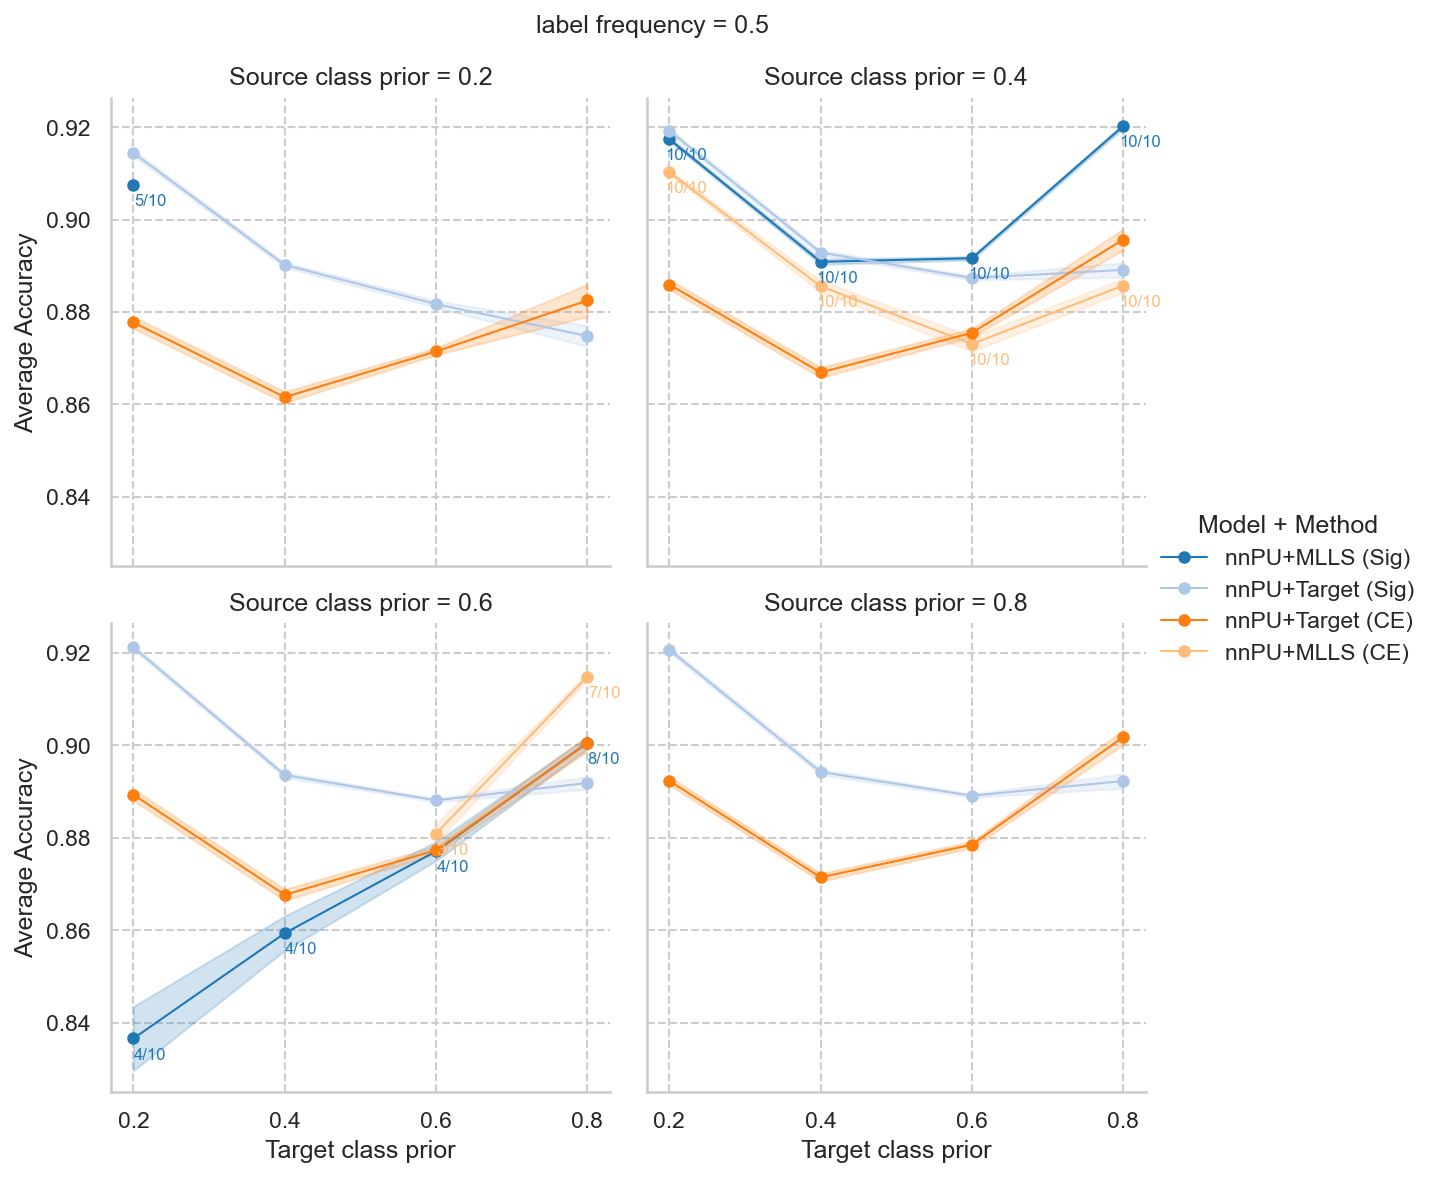
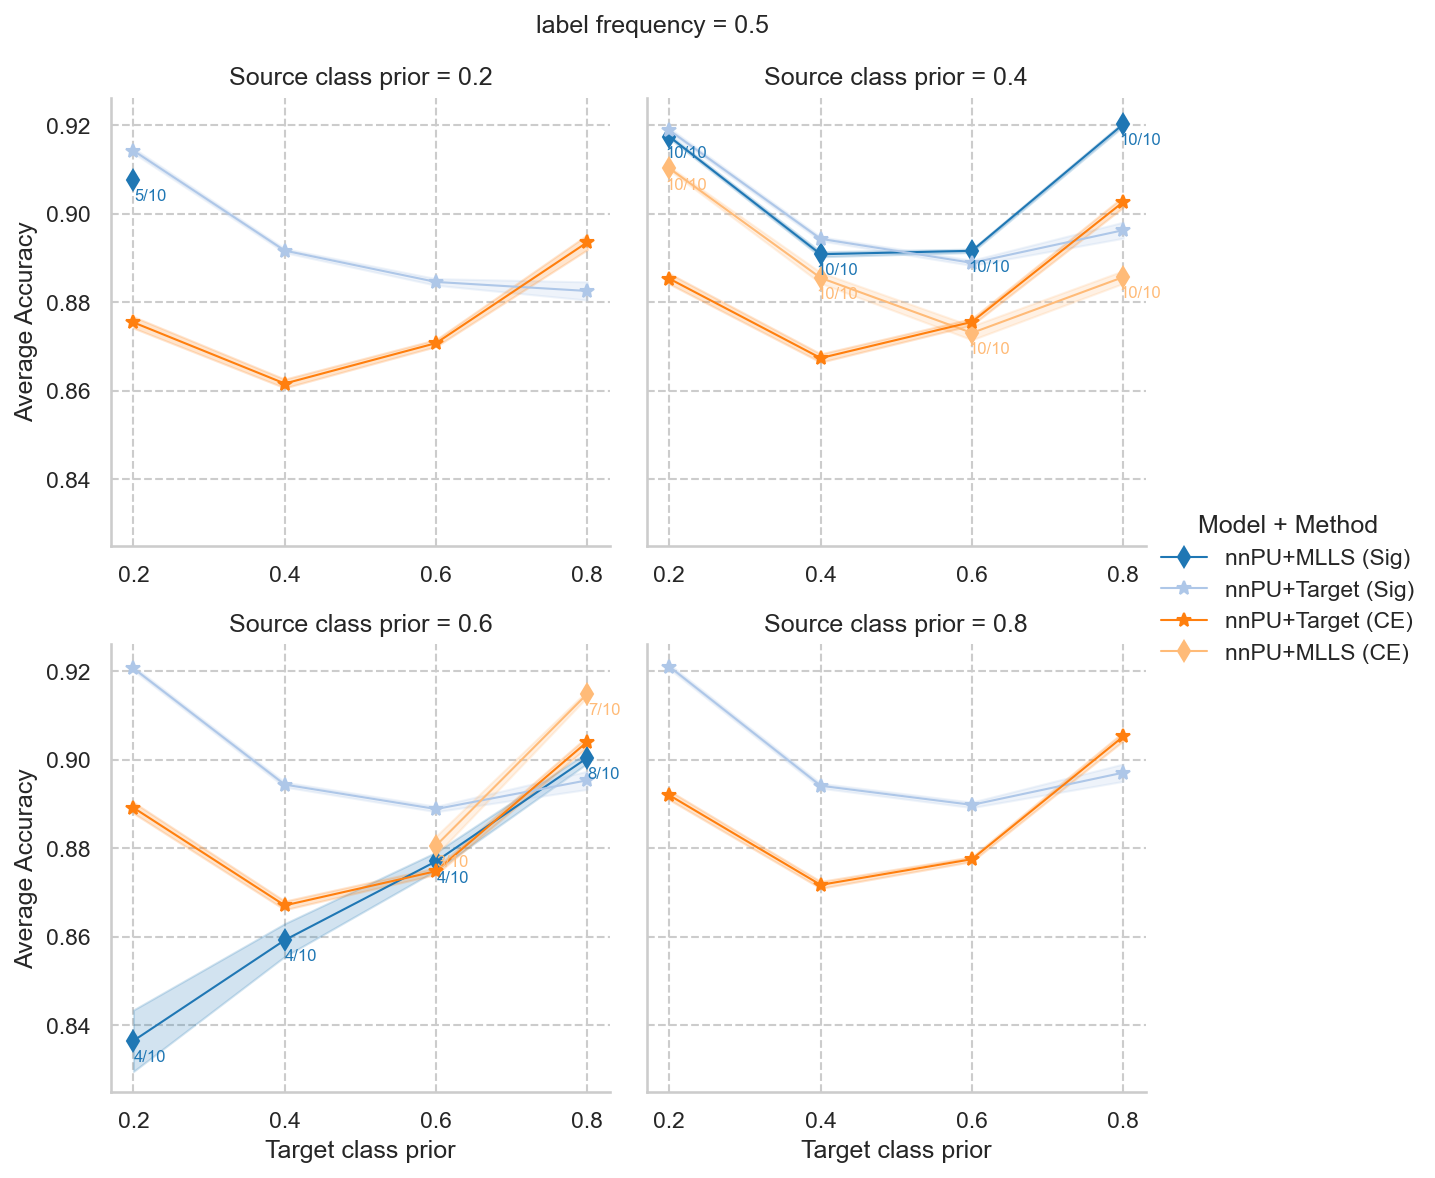
changes

diff --git a/src/PULS/visualization.py b/src/PULS/visualization.py
@@ -21,6 +21,59 @@ def _save_plot(fig, folder, dataset_name, label_frequency, metric, identifier=No
     print(f"Saved plot to {filepath}")
 
 
+def _base_method_name(method: str) -> str:
+    """Normalize method names by removing optional suffixes like '(Sig)' or '(CE)'."""
+    return method.split(" (")[0].strip()
+
+
+def _get_method_marker(method: str) -> str:
+    """Return marker shape based on method family."""
+    base_method = _base_method_name(method)
+
+    triangle_methods = {
+        "nnPU",
+        "nnPU+KM2",
+    }
+    circle_methods = {
+        "nnPU+TA+True",
+        "nnPU+TA+KM2",
+        "nnPU+TA+DRE",
+        "DRPU",
+        "DRPU+TA+True",
+        "DRPU+TA+KM2",
+    }
+    diamond_methods = {
+        "nnPU+MLLS",
+        "DRPU+MLLS",
+    }
+    other_methods = {
+        "DRPU+Target",
+        "nnPU+Target",
+    }
+
+    if base_method in triangle_methods:
+        return "^"
+    if base_method in circle_methods:
+        return "o"
+    if base_method in diamond_methods:
+        return "d"
+    if base_method in other_methods:
+        return "*"
+    return "o"
+
+
+def _get_method_markersize(method: str, default_size: float) -> float:
+    """Make triangle markers slightly larger for readability."""
+    marker = _get_method_marker(method)
+    if marker == "^":
+        return default_size + 1
+    elif marker == "d":
+        return default_size + 1.5
+    elif marker == "*":
+        return default_size + 2
+    return default_size
+
+
 def plot_mae(
     *args,
     is_real: bool = False,
@@ -74,7 +127,7 @@ def _plot_mae_synth(
         df = df[~non_converged_mask]
 
     sns.set_theme(style="whitegrid")
-    g = sns.FacetGrid(df, col="pi", col_wrap=2, height=4, sharey=True)
+    g = sns.FacetGrid(df, col="pi", col_wrap=2, height=4, sharex=False, sharey=True)
     palette = sns.color_palette("tab20", n_colors=df["method"].nunique())
     colors = dict(zip(df["method"].unique(), palette))
 
@@ -91,10 +144,10 @@ def _plot_mae_synth(
                     sub["new_pi"],
                     sub["mae"],
                     label=method,
-                    marker="o",
+                    marker=_get_method_marker(method),
                     linewidth=1,
                     linestyle="-",
-                    markersize=5,
+                    markersize=_get_method_markersize(method, 5),
                     color=c,
                 )
                 plt.fill_between(
@@ -133,10 +186,10 @@ def _plot_mae_synth(
                     sub["new_pi"],
                     sub["mae"],
                     label=method,
-                    marker="o",
+                    marker=_get_method_marker(method),
                     linewidth=1,
                     linestyle="-",
-                    markersize=5,
+                    markersize=_get_method_markersize(method, 5),
                     color=c,
                 )
                 # Add convergence annotations for MLLS methods
@@ -240,10 +293,10 @@ def _plot_mae_real(
             sub["new_pi"],
             sub["mae"],
             label=method,
-            marker="o",
+            marker=_get_method_marker(method),
             linewidth=1,
             linestyle="-",
-            markersize=6,
+            markersize=_get_method_markersize(method, 6),
             color=c,
         )
 
@@ -369,10 +422,10 @@ def _plot_metric_synth(
                     sub["new_pi"],
                     sub["average_value"],
                     label=method,
-                    marker="o",
+                    marker=_get_method_marker(method),
                     linewidth=1,
                     linestyle="-",
-                    markersize=5,
+                    markersize=_get_method_markersize(method, 5),
                     color=c,
                 )
                 plt.fill_between(
@@ -411,10 +464,10 @@ def _plot_metric_synth(
                     sub["new_pi"],
                     sub["average_value"],
                     label=method,
-                    marker="o",
+                    marker=_get_method_marker(method),
                     linewidth=1,
                     linestyle="-",
-                    markersize=6,
+                    markersize=_get_method_markersize(method, 6),
                     color=c,
                 )
                 # Add convergence annotations for MLLS methods
@@ -435,7 +488,15 @@ def _plot_metric_synth(
         g.map_dataframe(plot_lineplots)
 
     g.set(xticks=pi_grid)
+
     for ax in g.axes.flatten():
+        if verbose:
+            ax.set_xlabel("Target class prior")
+        else:
+            ax.set_xlabel("$\\pi'$")
+        ax.set_xticks(pi_grid)
+        ax.xaxis.label.set_visible(True)
+        ax.tick_params(axis="x", labelbottom=True)
         ax.yaxis.grid(True, linestyle="--")
         ax.xaxis.grid(True, linestyle="--")
 
@@ -526,10 +587,10 @@ def _plot_metric_real(
             sub["new_pi"],
             sub["average_value"],
             label=method,
-            marker="o",
+            marker=_get_method_marker(method),
             linewidth=1,
             linestyle="-",
-            markersize=6,
+            markersize=_get_method_markersize(method, 6),
             color=c,
         )
 
@@ -698,10 +759,10 @@ def plot_real_accuracy_grid(
                 sub["new_pi"],
                 sub["average_value"],
                 label=method,
-                marker="o",
+                marker=_get_method_marker(method),
                 linewidth=1.5,
                 linestyle="-",
-                markersize=6,
+                markersize=_get_method_markersize(method, 6),
                 color=color,
             )
 
@@ -876,10 +937,10 @@ def plot_real_mae_grid(
                 sub["new_pi"],
                 sub["mae"],
                 label=method,
-                marker="o",
+                marker=_get_method_marker(method),
                 linewidth=1.5,
                 linestyle="-",
-                markersize=6,
+                markersize=_get_method_markersize(method, 6),
                 color=color,
             )
 
@@ -1377,7 +1438,7 @@ def plot_boxplots_mae(
         x='method',
         y='mae',
         ax=ax,
-        color='steelblue',
+        color='darkorange',
         showfliers=False,
     )
     ax.set_xlabel('Method')

diff --git a/src/PULS/dataset.py b/src/PULS/dataset.py
@@ -8,6 +8,7 @@ from nnPU.dataset import (
     PUDatasetBase,
     BinaryTargetTransformer,
     PULabeler,
+    CIFAR_PU,
     MNIST_PU,
     FashionMNIST_PU,
     ChestXRay_PU,
@@ -212,6 +213,36 @@ class SMSSpam_PULS(SMSSpam_PU):
         target_transformer: BinaryTargetTransformer = BinaryTargetTransformer(
             included_classes=np.arange(2),
             positive_classes=[1],
+        ),
+        train=True,
+        download=True,  # ignored
+        random_seed=None,
+        shifted_prior: Optional[float] = None,
+        n_samples: Optional[int] = None,
+    ):
+        super().__init__(
+            root=root,
+            pu_labeler=pu_labeler,
+            target_transformer=target_transformer,
+            train=train,
+            download=download,
+            random_seed=random_seed,
+        )
+
+        self._convert_to_shifted_pu_data(shifted_prior, n_samples)
+
+    def _convert_to_pu_data(self):
+        pass
+
+
+class CIFAR_PULS(CIFAR_PU):
+    def __init__(
+        self,
+        root,
+        pu_labeler: PULabeler,
+        target_transformer: BinaryTargetTransformer = BinaryTargetTransformer(
+            included_classes=np.arange(10),
+            positive_classes=[2, 3, 4, 5, 6, 7],
         ),
         train=True,
         download=True,  # ignored

diff --git a/src/PULS/experiment.py b/src/PULS/experiment.py
@@ -333,7 +333,7 @@ class PULSExperiment(Experiment):
     def _estimate_train_km_prior(self) -> float:
         """Estimate the prior of training set with KM2 method."""
         pos = self.train_set.data.clone()[self.train_set.pu_targets == 1].numpy()
-        unl = self.train_set.data.clone().numpy()
+        unl = self.train_set.data.clone()[self.train_set.pu_targets == -1].numpy()
         KM2 = KM2_estimate(pos, unl)
 
         return KM2
@@ -799,6 +799,8 @@ class PULSExperiment(Experiment):
         self.metrics["nnPU+KM2"] = self._test_with_threshold(
             estimated_pi=None, model_type=ModelType.NNPU_KM2
         )
+        if "test_pis" not in self.metrics:
+            self.metrics["test_pis"] = {}
         self.metrics["test_pis"]["train_km2"] = self.train_km2
 
         with open(self.experiment_config.metrics_file, "w") as f:

diff --git a/src/DRPU/modules/Kernel_MPE.py b/src/DRPU/modules/Kernel_MPE.py
@@ -33,7 +33,11 @@ def find_nearest_valid_distribution(u_alpha, kernel, initial=None, reg=0):
     h = matrix(np.zeros(n))
     dims = {"l": n, "q": [], "s": []}
     solvers.options["show_progress"] = False
-    solution = solvers.coneqp(P, q, G, h, dims, A, b, initvals=initial)
+    try:
+        solution = solvers.coneqp(P, q, G, h, dims, A, b, initvals=initial)
+    except ValueError:
+        # Warm-start iterates can become numerically invalid for some kernels.
+        solution = solvers.coneqp(P + 1e-8 * np.eye(n), q, G, h, dims, A, b)
     distance_sqd = (
         solution["primal objective"] + np.dot(u_alpha.T, np.dot(kernel, u_alpha))[0, 0]
     )

diff --git a/src/PULS/const.py b/src/PULS/const.py
@@ -7,7 +7,7 @@ K = 10  # Number of experiments for each setting
 RESULTS_DIR = "output"
 
 MODELS = ["nnpu", "drpu"]
-NNPU_METHODS = ["nnPU", "nnPU+TA+True", "nnPU+TA+KM2", "nnPU+MLLS", "nnPU+Target", "nnPU+KM2"]
+NNPU_METHODS = ["nnPU", "nnPU+KM2", "nnPU+TA+True", "nnPU+TA+KM2", "nnPU+MLLS", "nnPU+Target"]
 ALL_METHODS = NNPU_METHODS + [
     "nnPU+TA+DRE",
     "DRPU",
